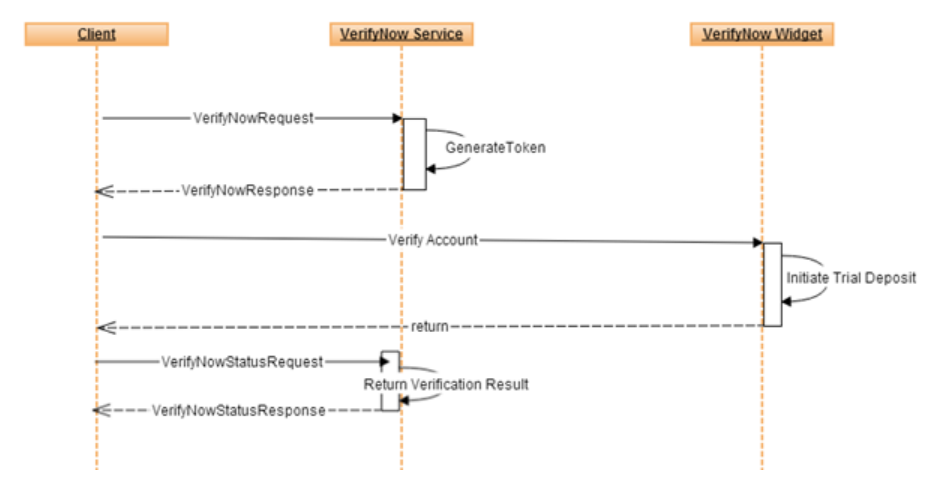
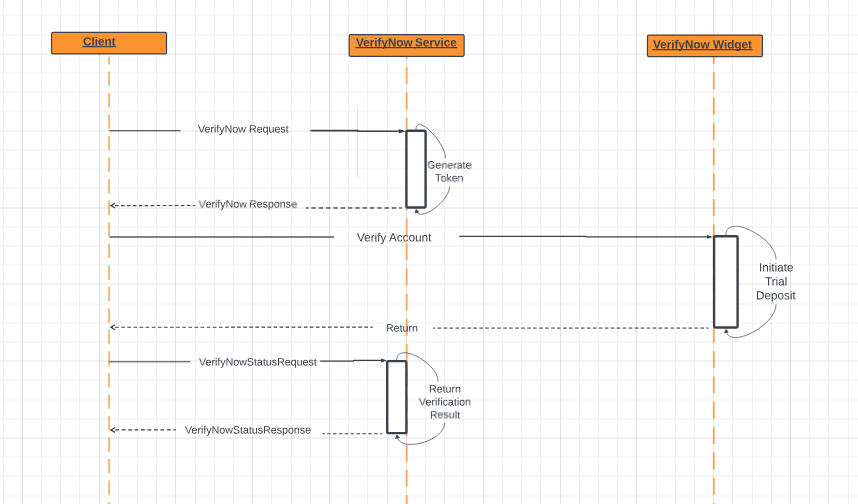
Changed the images for RTVA and Trail Deposit

Changed region(s): [[0.0, 0.031, 1.0, 0.9607], [0.4545, 0.9917, 0.4848, 1.0]]

diff --git a/docs/account-verification-flows.md b/docs/account-verification-flows.md
@@ -15,7 +15,7 @@ Below shown figures explain the overview of the verification and addition proces
 
 <center>
 
- ![image](../assets/images/add-bank-account.png)
+ ![image](../assets/images/addbankaccount.png)
 
  &nbsp;
 
@@ -24,7 +24,7 @@ Below shown figures explain the overview of the verification and addition proces
 
 <center>
 
- ![image](../assets/images/rtva-image.png)
+ ![image](../assets/images/RTVA.png)
 
  &nbsp;
 

diff --git a/docs/verify-accounts-using-verifynow/trial-deposit-verification.md b/docs/verify-accounts-using-verifynow/trial-deposit-verification.md
@@ -28,7 +28,7 @@ Shown below is an example of how Trial Deposit Verification works.
 
 <center>
 
-![Images](../../assets/images/td-sequence1.png)
+![Images](../../assets/images/Td-sequence1.png)
 
 </center>
 
